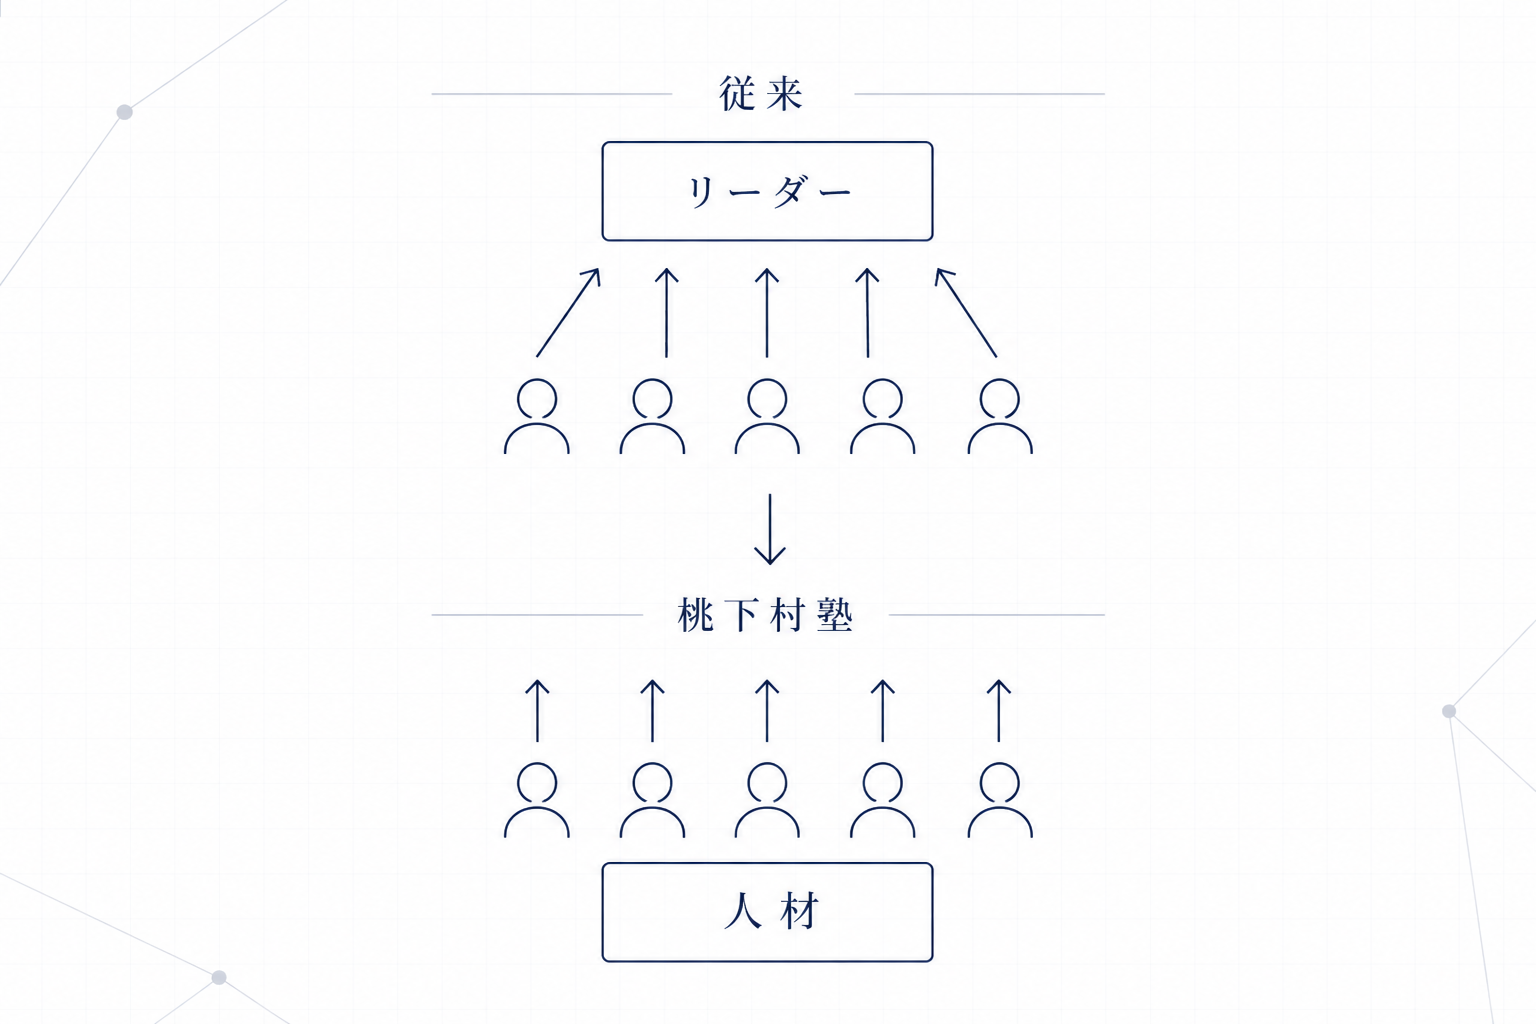
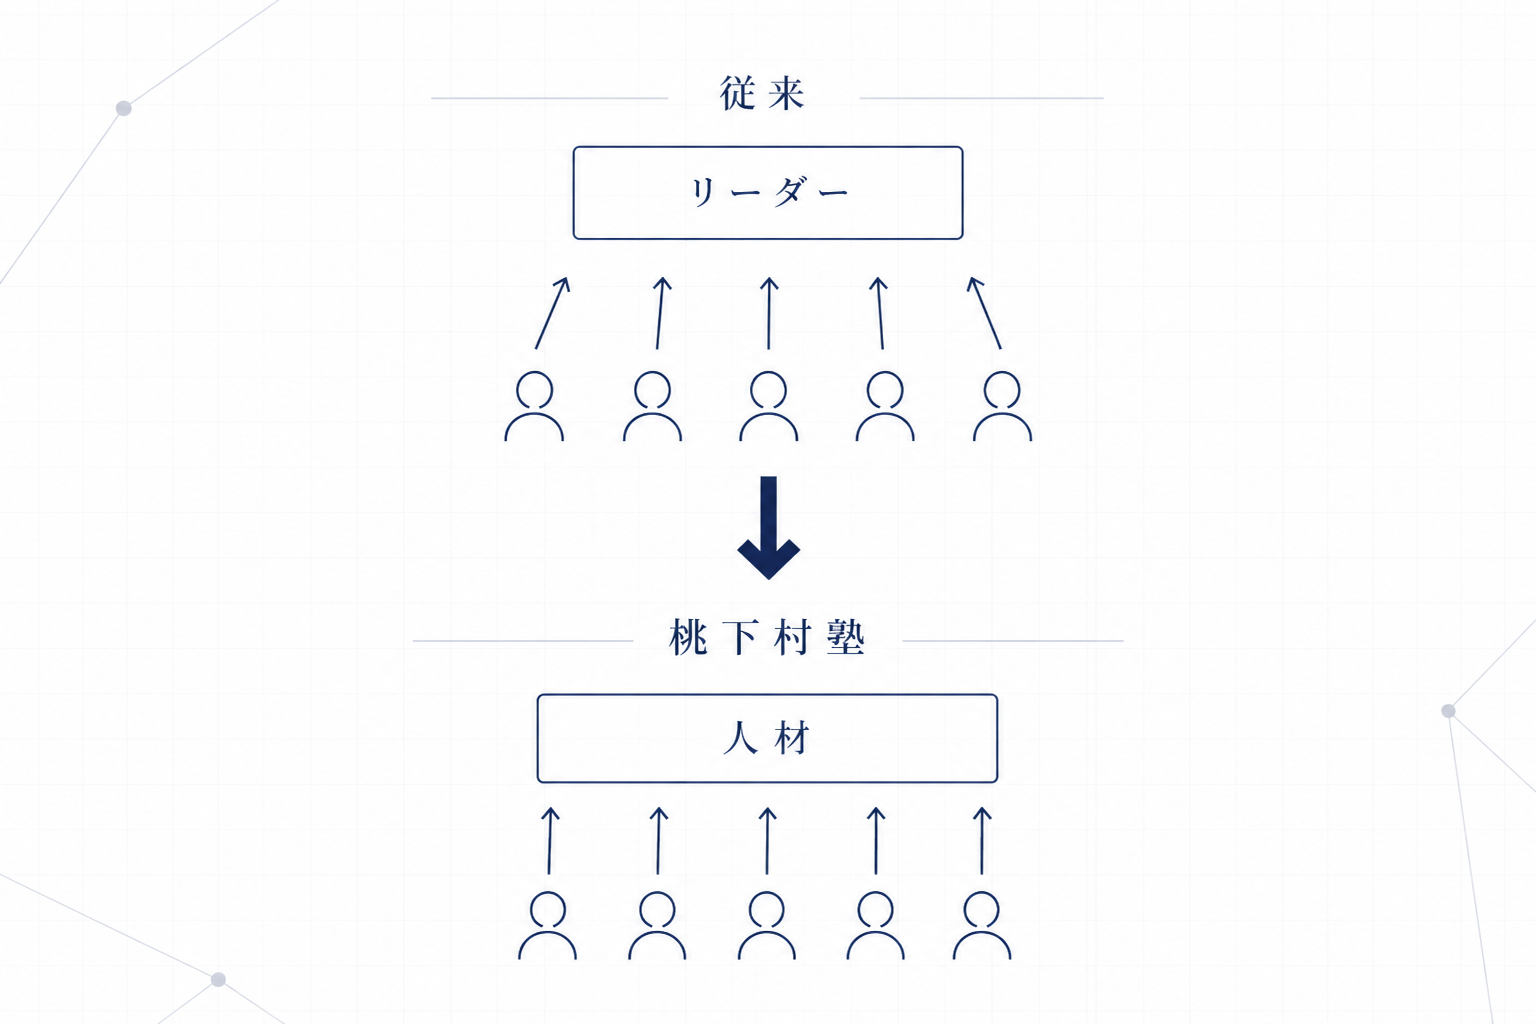
理念の人材育成図を新レイアウト（人材が上・メンバーが支える構図）に差し替え

diff --git a/index.html b/index.html
@@ -238,7 +238,7 @@
 
       <div class="phil-block reverse reveal">
         <div class="phil-img">
-          <img src="images/phil-jinzai.png" alt="従来のリーダー育成と桃下村塾の人材育成の違いを示す図" loading="lazy" />
+          <img src="images/phil-jinzai.png?v=2" alt="従来のリーダー育成と桃下村塾の人材育成の違いを示す図" loading="lazy" />
         </div>
         <div class="phil-text">
           <h3>リーダーではなく、「自分」を育てる</h3>